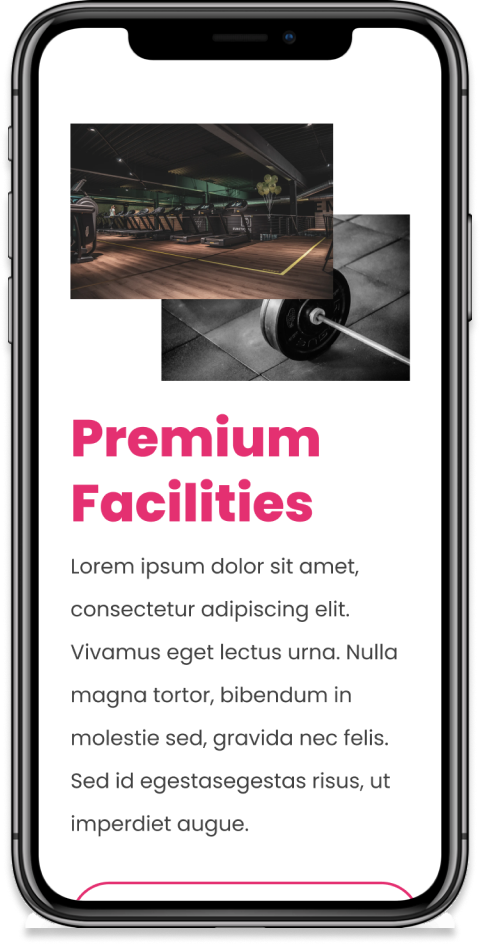
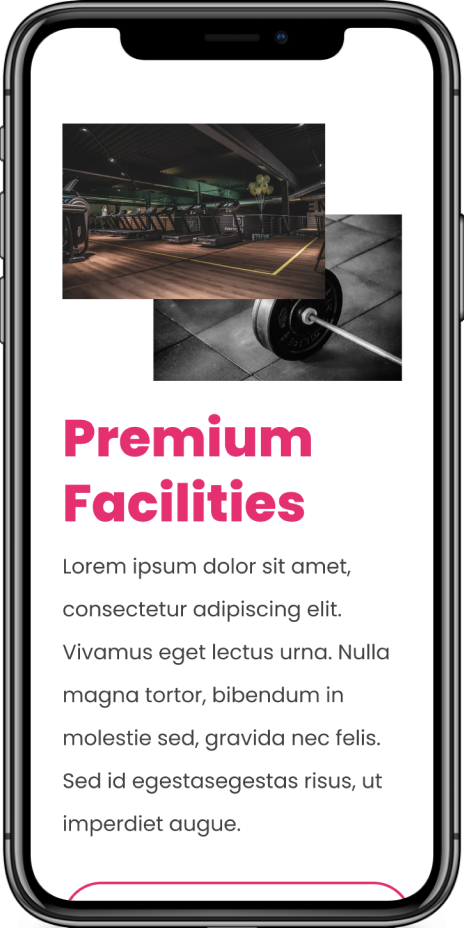
fix

diff --git a/src/scss/sections/_app.scss b/src/scss/sections/_app.scss
@@ -4,7 +4,6 @@
     background-color: var(--ac);
     color: white;
     position: relative;
-    z-index: 2;
 
     &-container {
         width: 100%;
@@ -67,7 +66,7 @@
 
     @media (max-width:remy(767)) {
         padding-top: remy(51);
-        padding-bottom: remy(124);
+        padding-bottom: remy(132);
         overflow: hidden;
 
         &-content {
@@ -108,7 +107,6 @@
     &__item {
         width: remy(232);
         flex-shrink: 0;
-        filter: drop-shadow(2px 4px 6px black);
     }
 
     &__item:last-child {
@@ -127,7 +125,7 @@
         margin-top: remy(40);
         position: relative;
         z-index: 3;
-
+      
         &__item:last-child {
             top: remy(59);
         }
@@ -135,11 +133,12 @@
 
     @media (max-width: remy(767)) {
         &__item {
+            // filter: drop-shadow(2px 4px 6px black);
             width: remy(166);
         }
 
         &__item:last-child {
-            top: remy(123);
+            top: remy(132);
         }
     }
 }

diff --git a/src/scss/sections/_social.scss b/src/scss/sections/_social.scss
@@ -3,3 +3,24 @@
     height: 500px;
     position: relative;
 }
+
+.social__links {
+    display: flex;
+    gap: remy(90);
+}
+
+.social__links-item {
+    width: remy(110);
+    height: remy(110);
+    display: flex;
+    justify-content: center;
+    align-items: center;
+    flex-shrink: 0;
+    background-color: #fff;
+    border-radius: 50%;
+    transition: background-color 0.2s ease-in;
+
+    &:hover {
+        background-color: var(--outlBg);
+    }
+}
